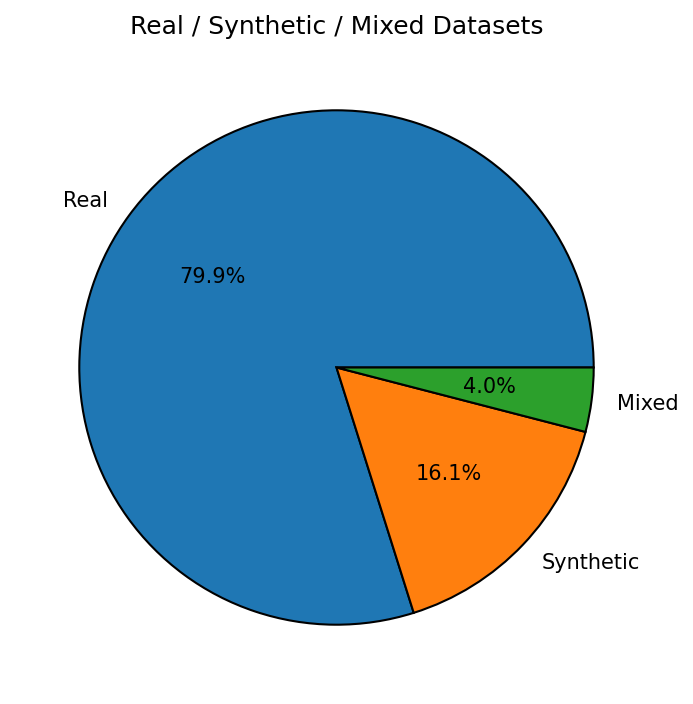
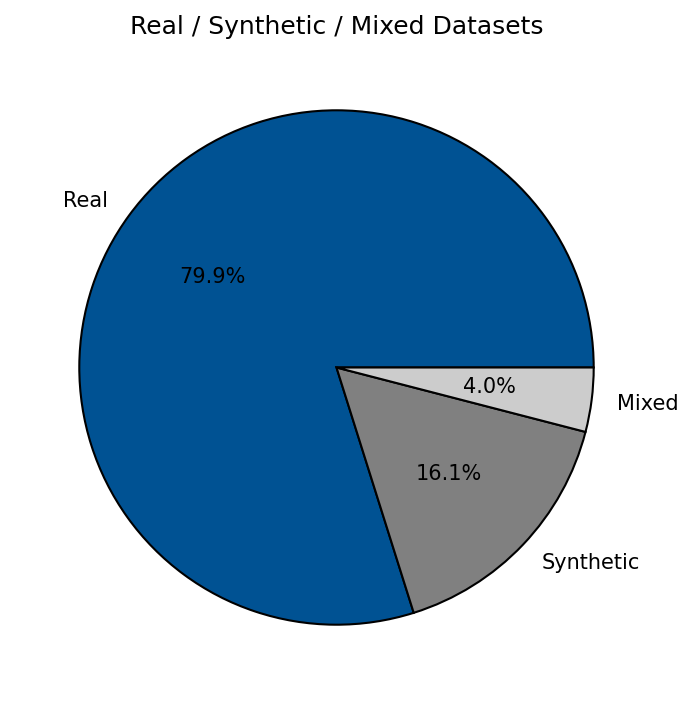
TUM Color 05,06

diff --git a/dataset/total_dataset_analysis/05_issuing_country.py b/dataset/total_dataset_analysis/05_issuing_country.py
@@ -1,12 +1,13 @@
 import pandas as pd
 import matplotlib.pyplot as plt
-import os
+import os, sys
 from collections import defaultdict
+sys.path.append(os.path.join(os.path.dirname(os.path.abspath(__file__)), '..'))
+from tum_colors import TUM_SECONDARY
 
 BASE_DIR = os.path.dirname(os.path.abspath(__file__))
 df = pd.read_csv(os.path.join(BASE_DIR, 'dataset_cleaned.csv'))
 
-# ── All datasets ──────────────────────────────────────────────────────────────
 REMOVE = {'Multiple'}
 REMAP  = {'UK': 'United Kingdom', 'Hongkong': 'Hong Kong'}
 
@@ -24,12 +25,11 @@ for val in df['Issuing Country'].dropna():
     for country in parts:
         country_counts[country] += share
 
-# ── Sort descending ───────────────────────────────────────────────────────────
 sorted_counts = sorted(country_counts.items(), key=lambda x: x[1], reverse=True)
 countries, values = zip(*sorted_counts)
 
 fig, ax = plt.subplots(figsize=(10, len(countries) * 0.35 + 1))
-ax.barh(list(reversed(countries)), list(reversed(values)), edgecolor='black')
+ax.barh(list(reversed(countries)), list(reversed(values)), color=TUM_SECONDARY['blue2'], edgecolor='black')
 ax.set_title('Number of Datasets per Issuing Country')
 ax.set_xlabel('Number of Datasets')
 ax.grid(True)

diff --git a/dataset/total_dataset_analysis/06_real_syn_mix_pie.py b/dataset/total_dataset_analysis/06_real_syn_mix_pie.py
@@ -1,6 +1,8 @@
 import pandas as pd
 import matplotlib.pyplot as plt
-import os
+import os, sys
+sys.path.append(os.path.join(os.path.dirname(os.path.abspath(__file__)), '..'))
+from tum_colors import TUM_SECONDARY
 
 BASE_DIR = os.path.dirname(os.path.abspath(__file__))
 df = pd.read_csv(os.path.join(BASE_DIR, 'dataset_cleaned.csv'))
@@ -11,7 +13,9 @@ sizes = [counts.get(k, 0) for k in [0, 1, 2]]
 names = [labels[k] for k in [0, 1, 2]]
 
 plt.figure()
-plt.pie(sizes, labels=names, autopct='%1.1f%%', wedgeprops={'edgecolor': 'black'})
+plt.pie(sizes, labels=names, autopct='%1.1f%%',
+        colors=[TUM_SECONDARY['blue2'], TUM_SECONDARY['gray'], TUM_SECONDARY['light_gray']],
+        wedgeprops={'edgecolor': 'black'})
 plt.title('Real / Synthetic / Mixed Datasets')
 plt.tight_layout()
 
